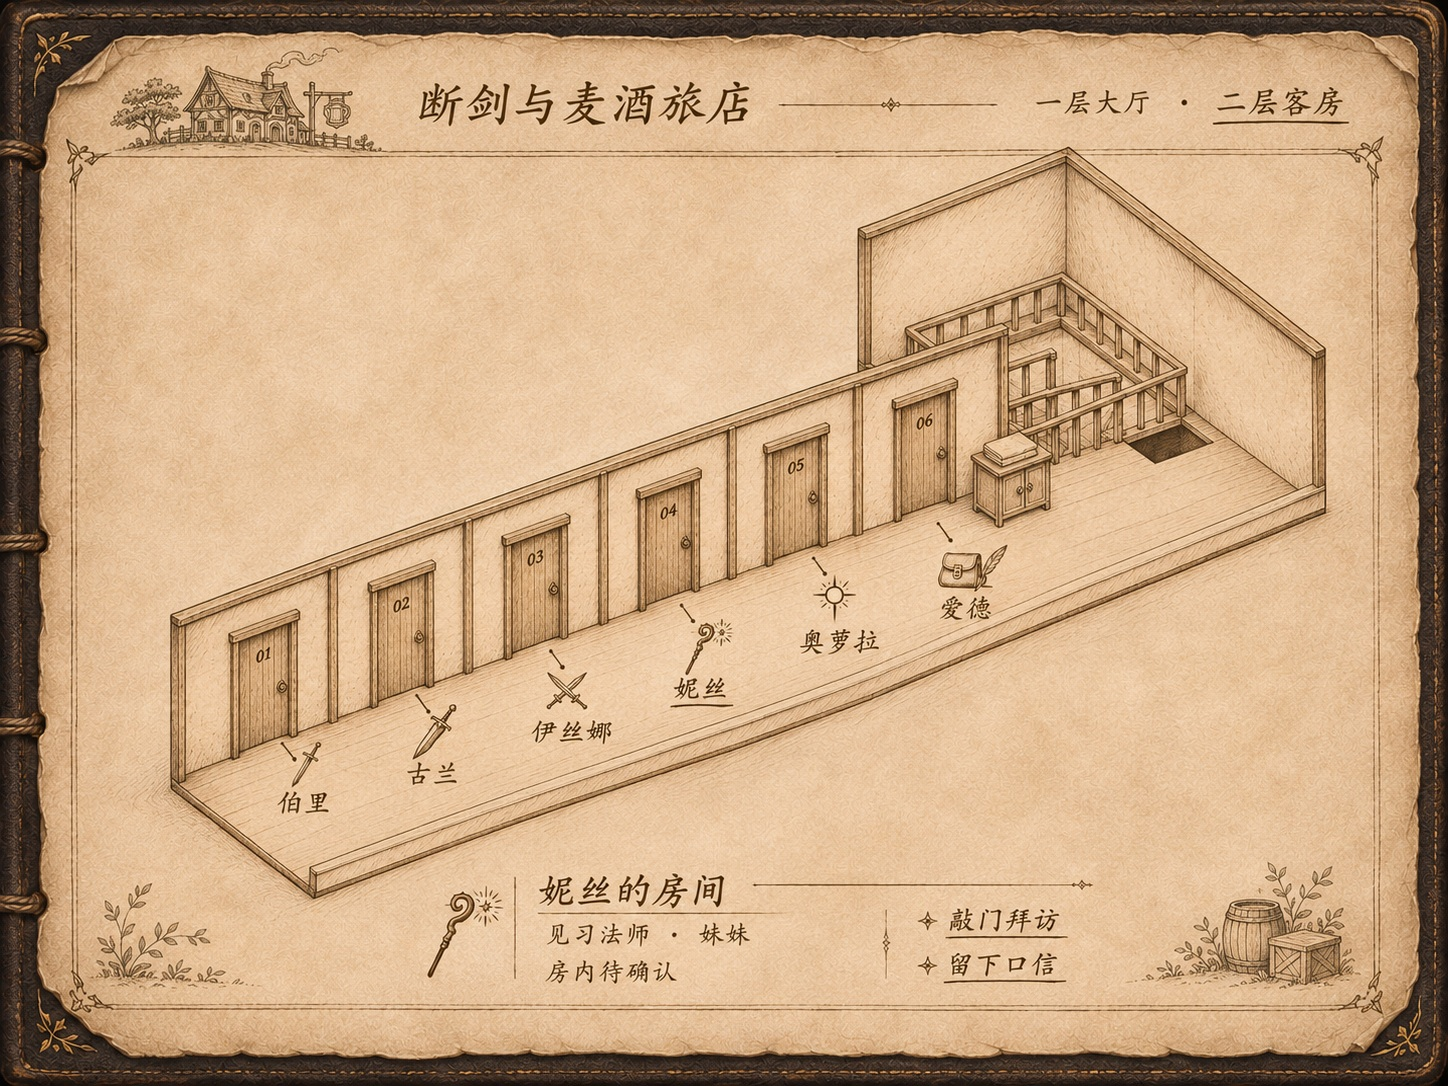
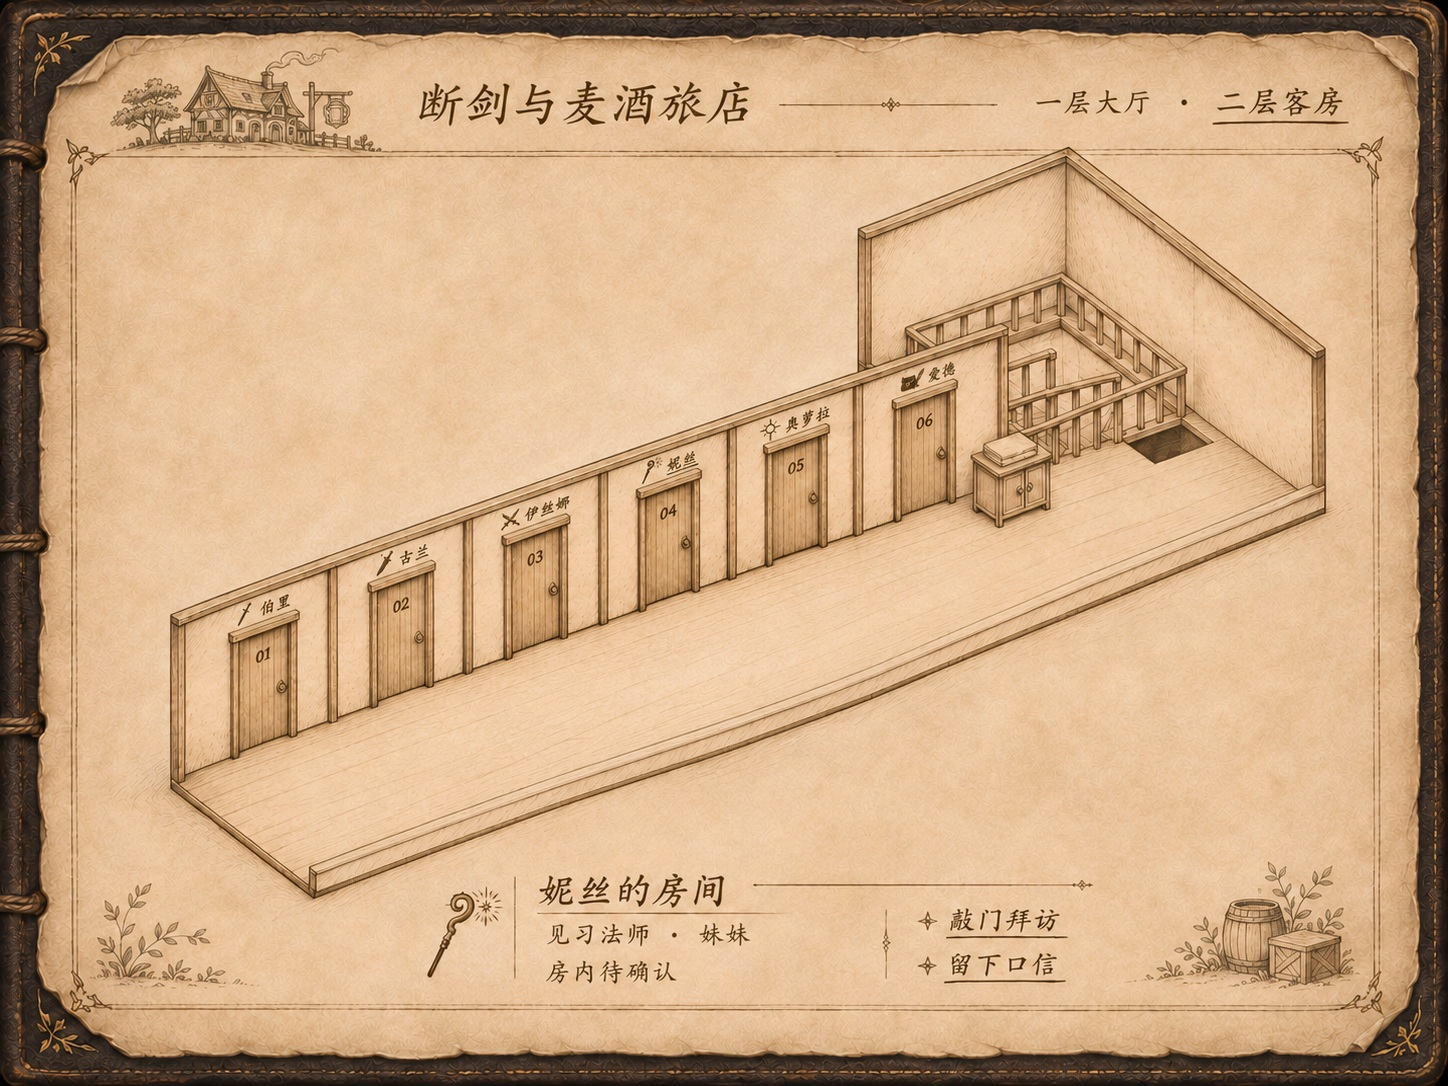
Shrink inn guest names and class symbols and place them above door lintels

diff --git a/奥森德/地图预览/美术方向/README.md b/奥森德/地图预览/美术方向/README.md
@@ -8,7 +8,7 @@
 
 同一侧走廊、一排六扇门，按伯里、古兰、伊丝娜、妮丝、奥萝拉、爱德排列。古兰为独立住客，不标为领队或小队成员。
 
-本稿演示选中妮丝：门旁细墨线标记，纸面下方展开房间信息、“房内待确认”与敲门、留言入口。职业符号、姓名、楼层题签和人物批注使用同一套墨绘笔触，不用金属徽章或网页卡片。
+本稿演示选中妮丝：六个姓名与职业符号缩小为门楣上方的紧凑小标注，走廊地面留空；纸面下方展开房间信息、“房内待确认”与敲门、留言入口。职业符号、姓名、楼层题签和人物批注使用同一套墨绘笔触，不用金属徽章或网页卡片。
 
 ## 全域界面
 
